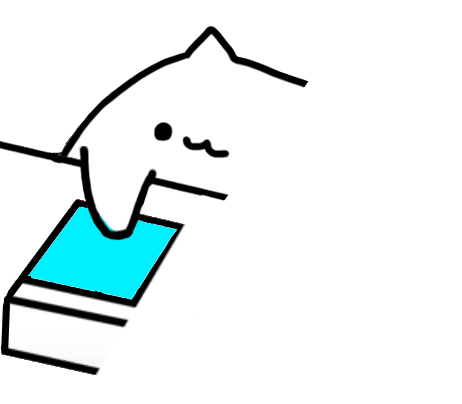
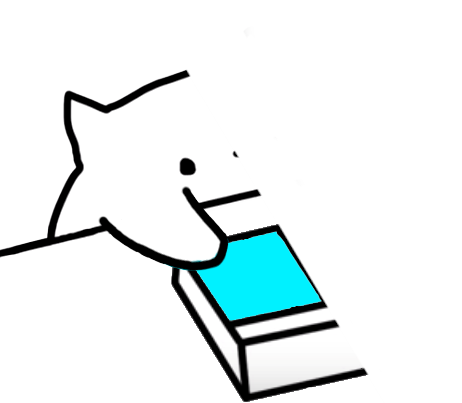
Add 2k layout
Add 2k layout
Change 4k and 5k layouts to use 2k cats
Simplify layout system.

Changed region(s): [[0.0, 0.0596, 0.7879, 1.0]]

diff --git a/read.py b/read.py
@@ -5,10 +5,11 @@ import os
 def load_textures():
     path = os.path.join(os.getcwd(), "images")
     return {
-        "4k": load_4k_textures(path),
         "1k": load_1k_textures(path),
-        "4k_rev": load_rev_4k_textures(path),
         "2k": load_2k_textures(path),
+        "2k_rev": load_rev_2k_textures(path),
+        "4k": load_4k_textures(path),
+        "4k_rev": load_rev_4k_textures(path),
     }
 
 
@@ -32,6 +33,17 @@ def load_2k_textures(path):
     }
 
 
+def load_rev_2k_textures(path):
+    path = os.path.join(path, "2k_cat")
+    return {
+        "base": QtGui.QPixmap(os.path.join(path, "2k_cat_base.png")).transformed(QtGui.QTransform().scale(-1, 1)),
+        "r_0": QtGui.QPixmap(os.path.join(path, "2k_cat_l_0.png")).transformed(QtGui.QTransform().scale(-1, 1)),
+        "r_1": QtGui.QPixmap(os.path.join(path, "2k_cat_l_1.png")).transformed(QtGui.QTransform().scale(-1, 1)),
+        "l_0": QtGui.QPixmap(os.path.join(path, "2k_cat_r_0.png")).transformed(QtGui.QTransform().scale(-1, 1)),
+        "l_1": QtGui.QPixmap(os.path.join(path, "2k_cat_r_1.png")).transformed(QtGui.QTransform().scale(-1, 1)),
+    }
+
+
 def load_4k_textures(path):
     path = os.path.join(path, "4k_cat")
     return {
@@ -50,15 +62,15 @@ def load_4k_textures(path):
 def load_rev_4k_textures(path):
     path = os.path.join(path, "4k_cat")
     return {
-        "base": QtGui.QPixmap(os.path.join(path, "4k_cat_rev_base.png")),
-        "l_00": QtGui.QPixmap(os.path.join(path, "4k_cat_rev_l_00.png")),
-        "l_01": QtGui.QPixmap(os.path.join(path, "4k_cat_rev_l_01.png")),
-        "l_10": QtGui.QPixmap(os.path.join(path, "4k_cat_rev_l_10.png")),
-        "l_11": QtGui.QPixmap(os.path.join(path, "4k_cat_rev_l_11.png")),
-        "r_00": QtGui.QPixmap(os.path.join(path, "4k_cat_rev_r_00.png")),
-        "r_01": QtGui.QPixmap(os.path.join(path, "4k_cat_rev_r_01.png")),
-        "r_10": QtGui.QPixmap(os.path.join(path, "4k_cat_rev_r_10.png")),
-        "r_11": QtGui.QPixmap(os.path.join(path, "4k_cat_rev_r_11.png")),
+        "base": QtGui.QPixmap(os.path.join(path, "4k_cat_base.png")).transformed(QtGui.QTransform().scale(-1, 1)),
+        "r_00": QtGui.QPixmap(os.path.join(path, "4k_cat_l_00.png")).transformed(QtGui.QTransform().scale(-1, 1)),
+        "r_10": QtGui.QPixmap(os.path.join(path, "4k_cat_l_01.png")).transformed(QtGui.QTransform().scale(-1, 1)),
+        "r_01": QtGui.QPixmap(os.path.join(path, "4k_cat_l_10.png")).transformed(QtGui.QTransform().scale(-1, 1)),
+        "r_11": QtGui.QPixmap(os.path.join(path, "4k_cat_l_11.png")).transformed(QtGui.QTransform().scale(-1, 1)),
+        "l_00": QtGui.QPixmap(os.path.join(path, "4k_cat_r_00.png")).transformed(QtGui.QTransform().scale(-1, 1)),
+        "l_10": QtGui.QPixmap(os.path.join(path, "4k_cat_r_01.png")).transformed(QtGui.QTransform().scale(-1, 1)),
+        "l_01": QtGui.QPixmap(os.path.join(path, "4k_cat_r_10.png")).transformed(QtGui.QTransform().scale(-1, 1)),
+        "l_11": QtGui.QPixmap(os.path.join(path, "4k_cat_r_11.png")).transformed(QtGui.QTransform().scale(-1, 1)),
     }
 
 

diff --git a/main.py b/main.py
@@ -108,13 +108,14 @@ def main():
     cats = {
         "1k":   cat1k.Cat1k(cats_keys["1k"], textures["1k"]),
         "2k": cat2k.Cat2k(cats_keys["2k"], textures["2k"]),
-        "4k":    cat4k.Cat4k(cats_keys["4k_rev"], textures["4k_rev"]),
-        "4k_rev": cat4k.Cat4k(cats_keys["4k"], textures["4k"]),
+        "2k_rev": cat2k.Cat2k(cats_keys["2k_rev"], textures["2k_rev"]),
+        "4k":    cat4k.Cat4k(cats_keys["4k"], textures["4k"]),
+        "4k_rev": cat4k.Cat4k(cats_keys["4k_rev"], textures["4k_rev"]),
     }
     cat_configs = {
         "2": [cats["2k"]],
-        "4": [cats["4k"]],
-        "5": [cats["4k"], cats["1k"]],
+        "4": [cats["2k"], cats["2k_rev"]],
+        "5": [cats["2k"], cats["1k"], cats["2k_rev"]],
         "9": [cats["4k"], cats["1k"], cats["4k_rev"]],
     }
 
